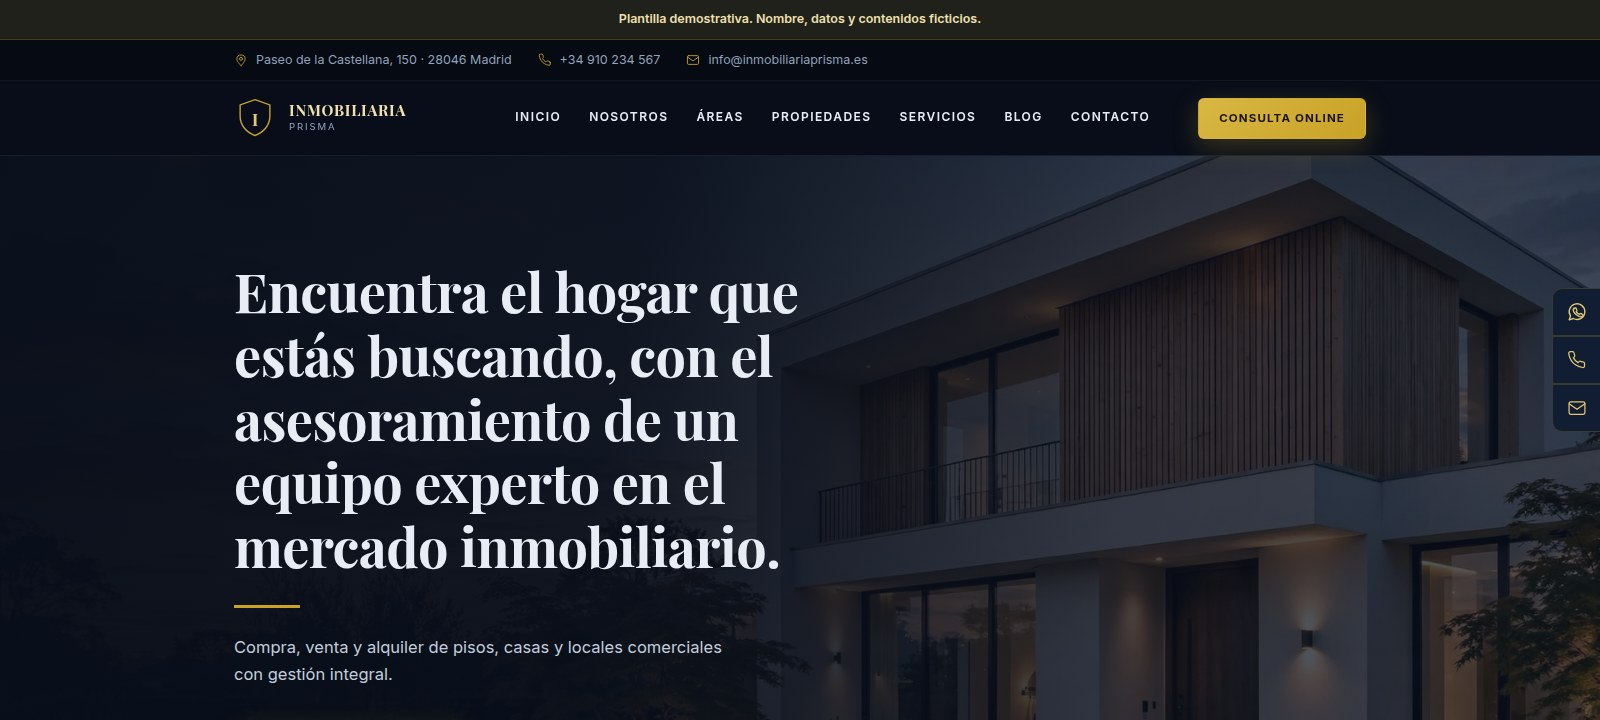
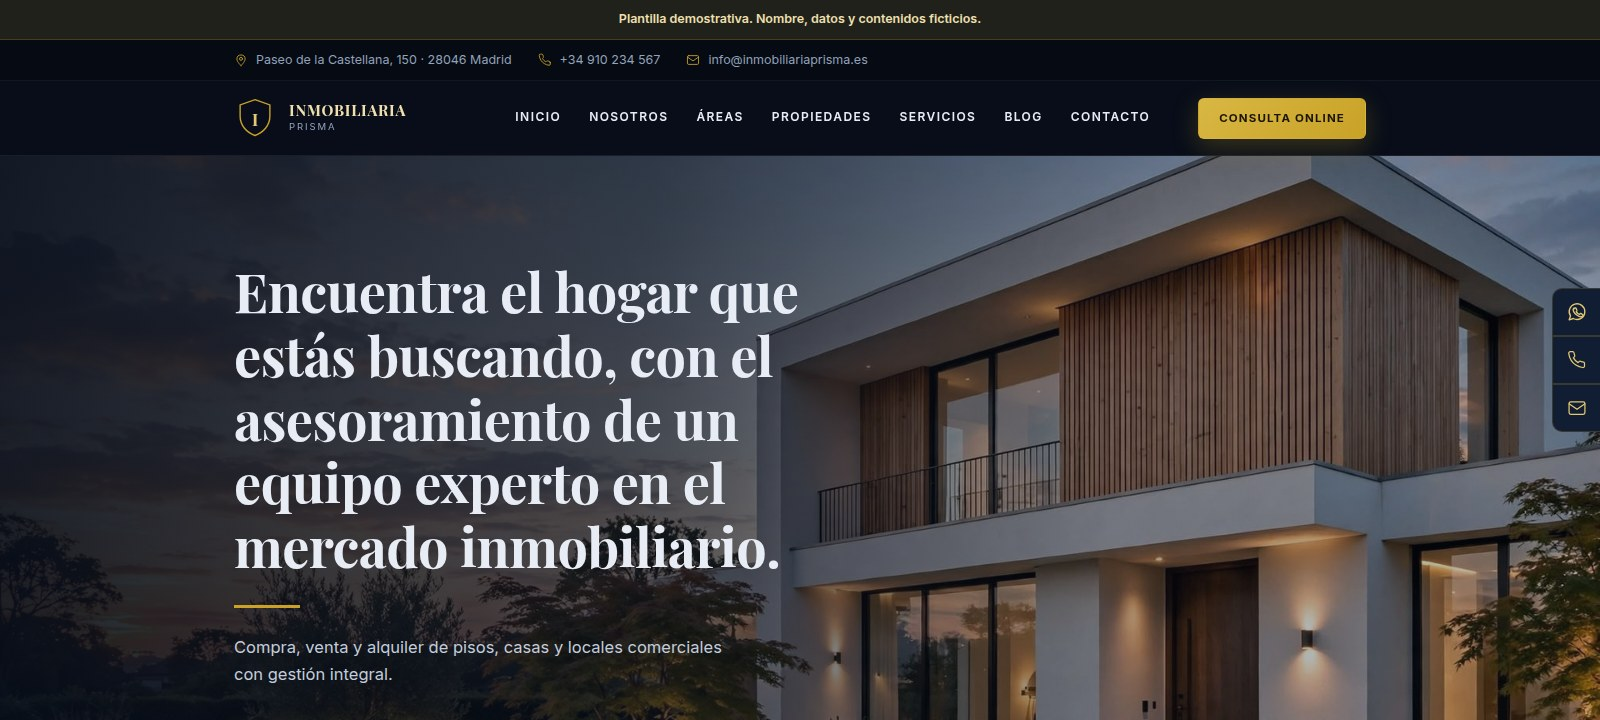
Aclara la foto de portada en Inmobiliaria y Consultoría Legal
La foto de fondo se renderizaba a opacity:.42 y encima llevaba un
degradado oscuro que llegaba a .97 de opacidad en el lado del texto —
el resultado era una portada demasiado apagada, con la foto casi
invisible. Sube la opacidad de la imagen a .8 y suaviza el degradado
(.92/.65/.2/.04) para que la foto se vea nítida y viva sin perder
contraste con el texto blanco.

Regenera las miniaturas del catálogo con la nueva portada.

Claude-Session: https://claude.ai/code/session_01GH4UBwAk37e4FV2NGANpez

diff --git a/public/demos/consultoria-legal-premium/css/style.css b/public/demos/consultoria-legal-premium/css/style.css
@@ -141,9 +141,9 @@ h3{font-size:20px;}
 /* ---------------- Portada ---------------- */
 .portada{position:relative;overflow:hidden;padding:0;background:var(--noche-2);}
 .portada-fondo{position:absolute;inset:0;}
-.portada-fondo img{width:100%;height:100%;object-fit:cover;object-position:center right;opacity:.42;}
+.portada-fondo img{width:100%;height:100%;object-fit:cover;object-position:center right;opacity:.8;}
 .portada-vel{position:absolute;inset:0;
-  background:linear-gradient(100deg,rgba(8,14,26,.97) 0%,rgba(8,14,26,.9) 38%,rgba(8,14,26,.42) 68%,rgba(8,14,26,.2) 100%);}
+  background:linear-gradient(100deg,rgba(8,14,26,.92) 0%,rgba(8,14,26,.65) 38%,rgba(8,14,26,.2) 68%,rgba(8,14,26,.04) 100%);}
 .portada-in{position:relative;z-index:2;padding:104px 0 96px;max-width:640px;}
 .portada h1{font-size:clamp(31px,4.6vw,54px);margin-bottom:26px;}
 .portada .raya{width:66px;height:3px;background:var(--oro);margin-bottom:26px;}

diff --git a/public/demos/inmobiliaria-premium/css/style.css b/public/demos/inmobiliaria-premium/css/style.css
@@ -141,9 +141,9 @@ h3{font-size:20px;}
 /* ---------------- Portada ---------------- */
 .portada{position:relative;overflow:hidden;padding:0;background:var(--noche-2);}
 .portada-fondo{position:absolute;inset:0;}
-.portada-fondo img{width:100%;height:100%;object-fit:cover;object-position:center right;opacity:.42;}
+.portada-fondo img{width:100%;height:100%;object-fit:cover;object-position:center right;opacity:.8;}
 .portada-vel{position:absolute;inset:0;
-  background:linear-gradient(100deg,rgba(8,14,26,.97) 0%,rgba(8,14,26,.9) 38%,rgba(8,14,26,.42) 68%,rgba(8,14,26,.2) 100%);}
+  background:linear-gradient(100deg,rgba(8,14,26,.92) 0%,rgba(8,14,26,.65) 38%,rgba(8,14,26,.2) 68%,rgba(8,14,26,.04) 100%);}
 .portada-in{position:relative;z-index:2;padding:104px 0 96px;max-width:640px;}
 .portada h1{font-size:clamp(31px,4.6vw,54px);margin-bottom:26px;}
 .portada .raya{width:66px;height:3px;background:var(--oro);margin-bottom:26px;}
